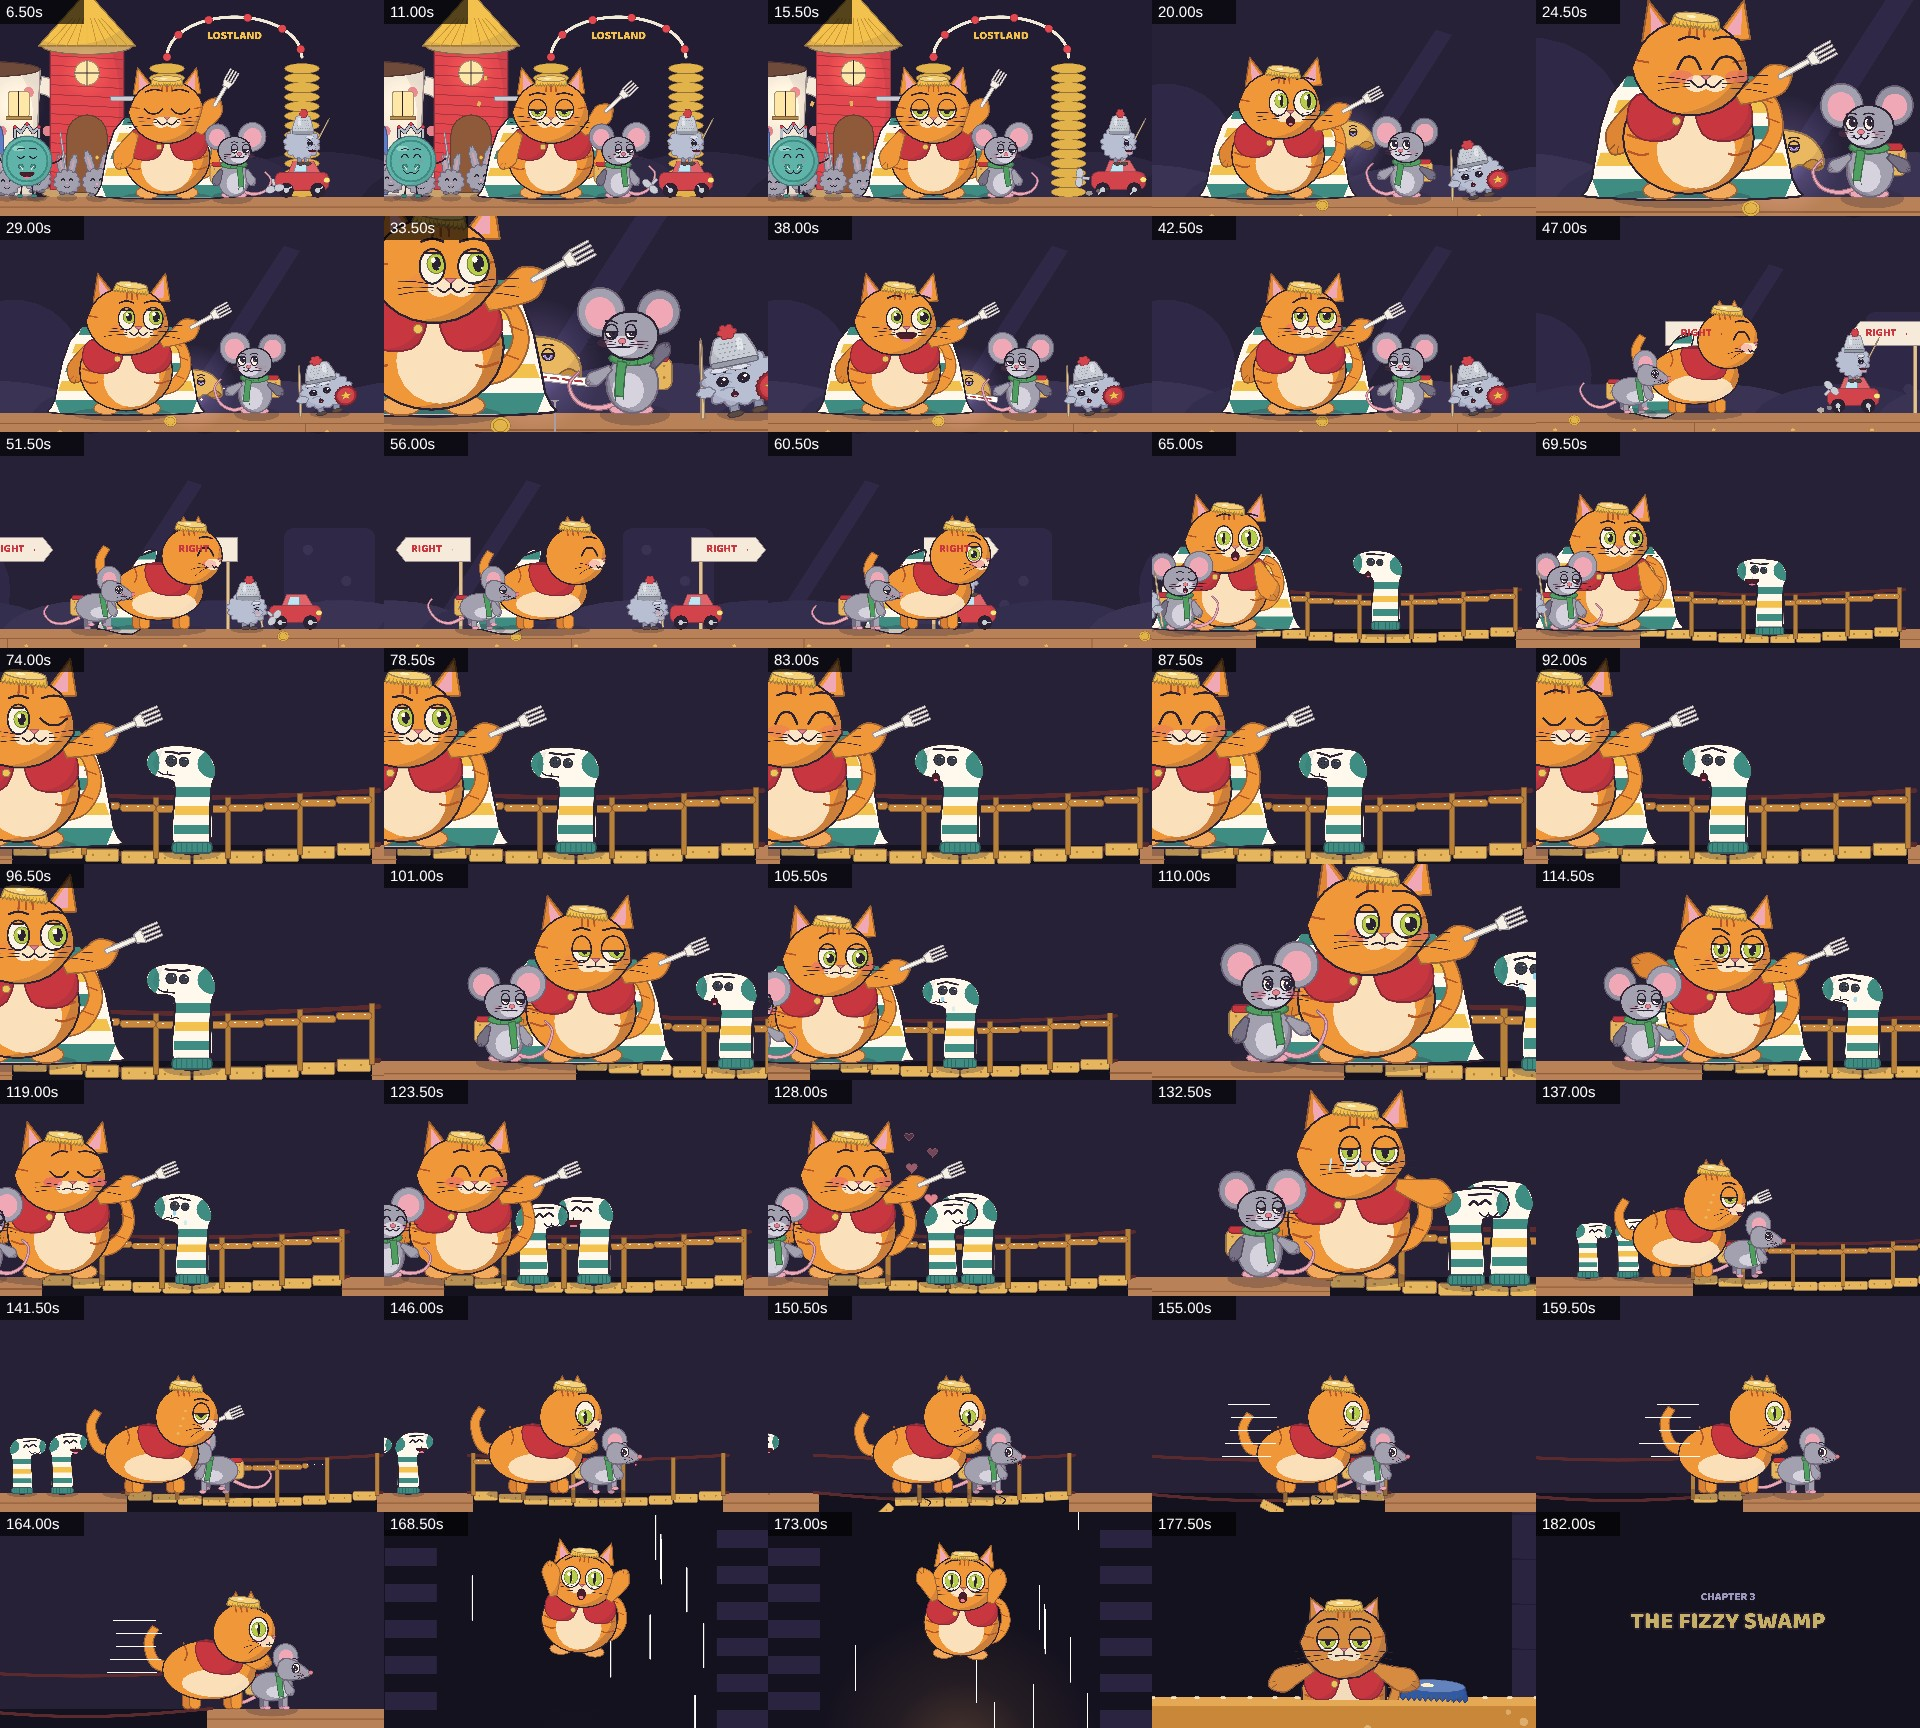
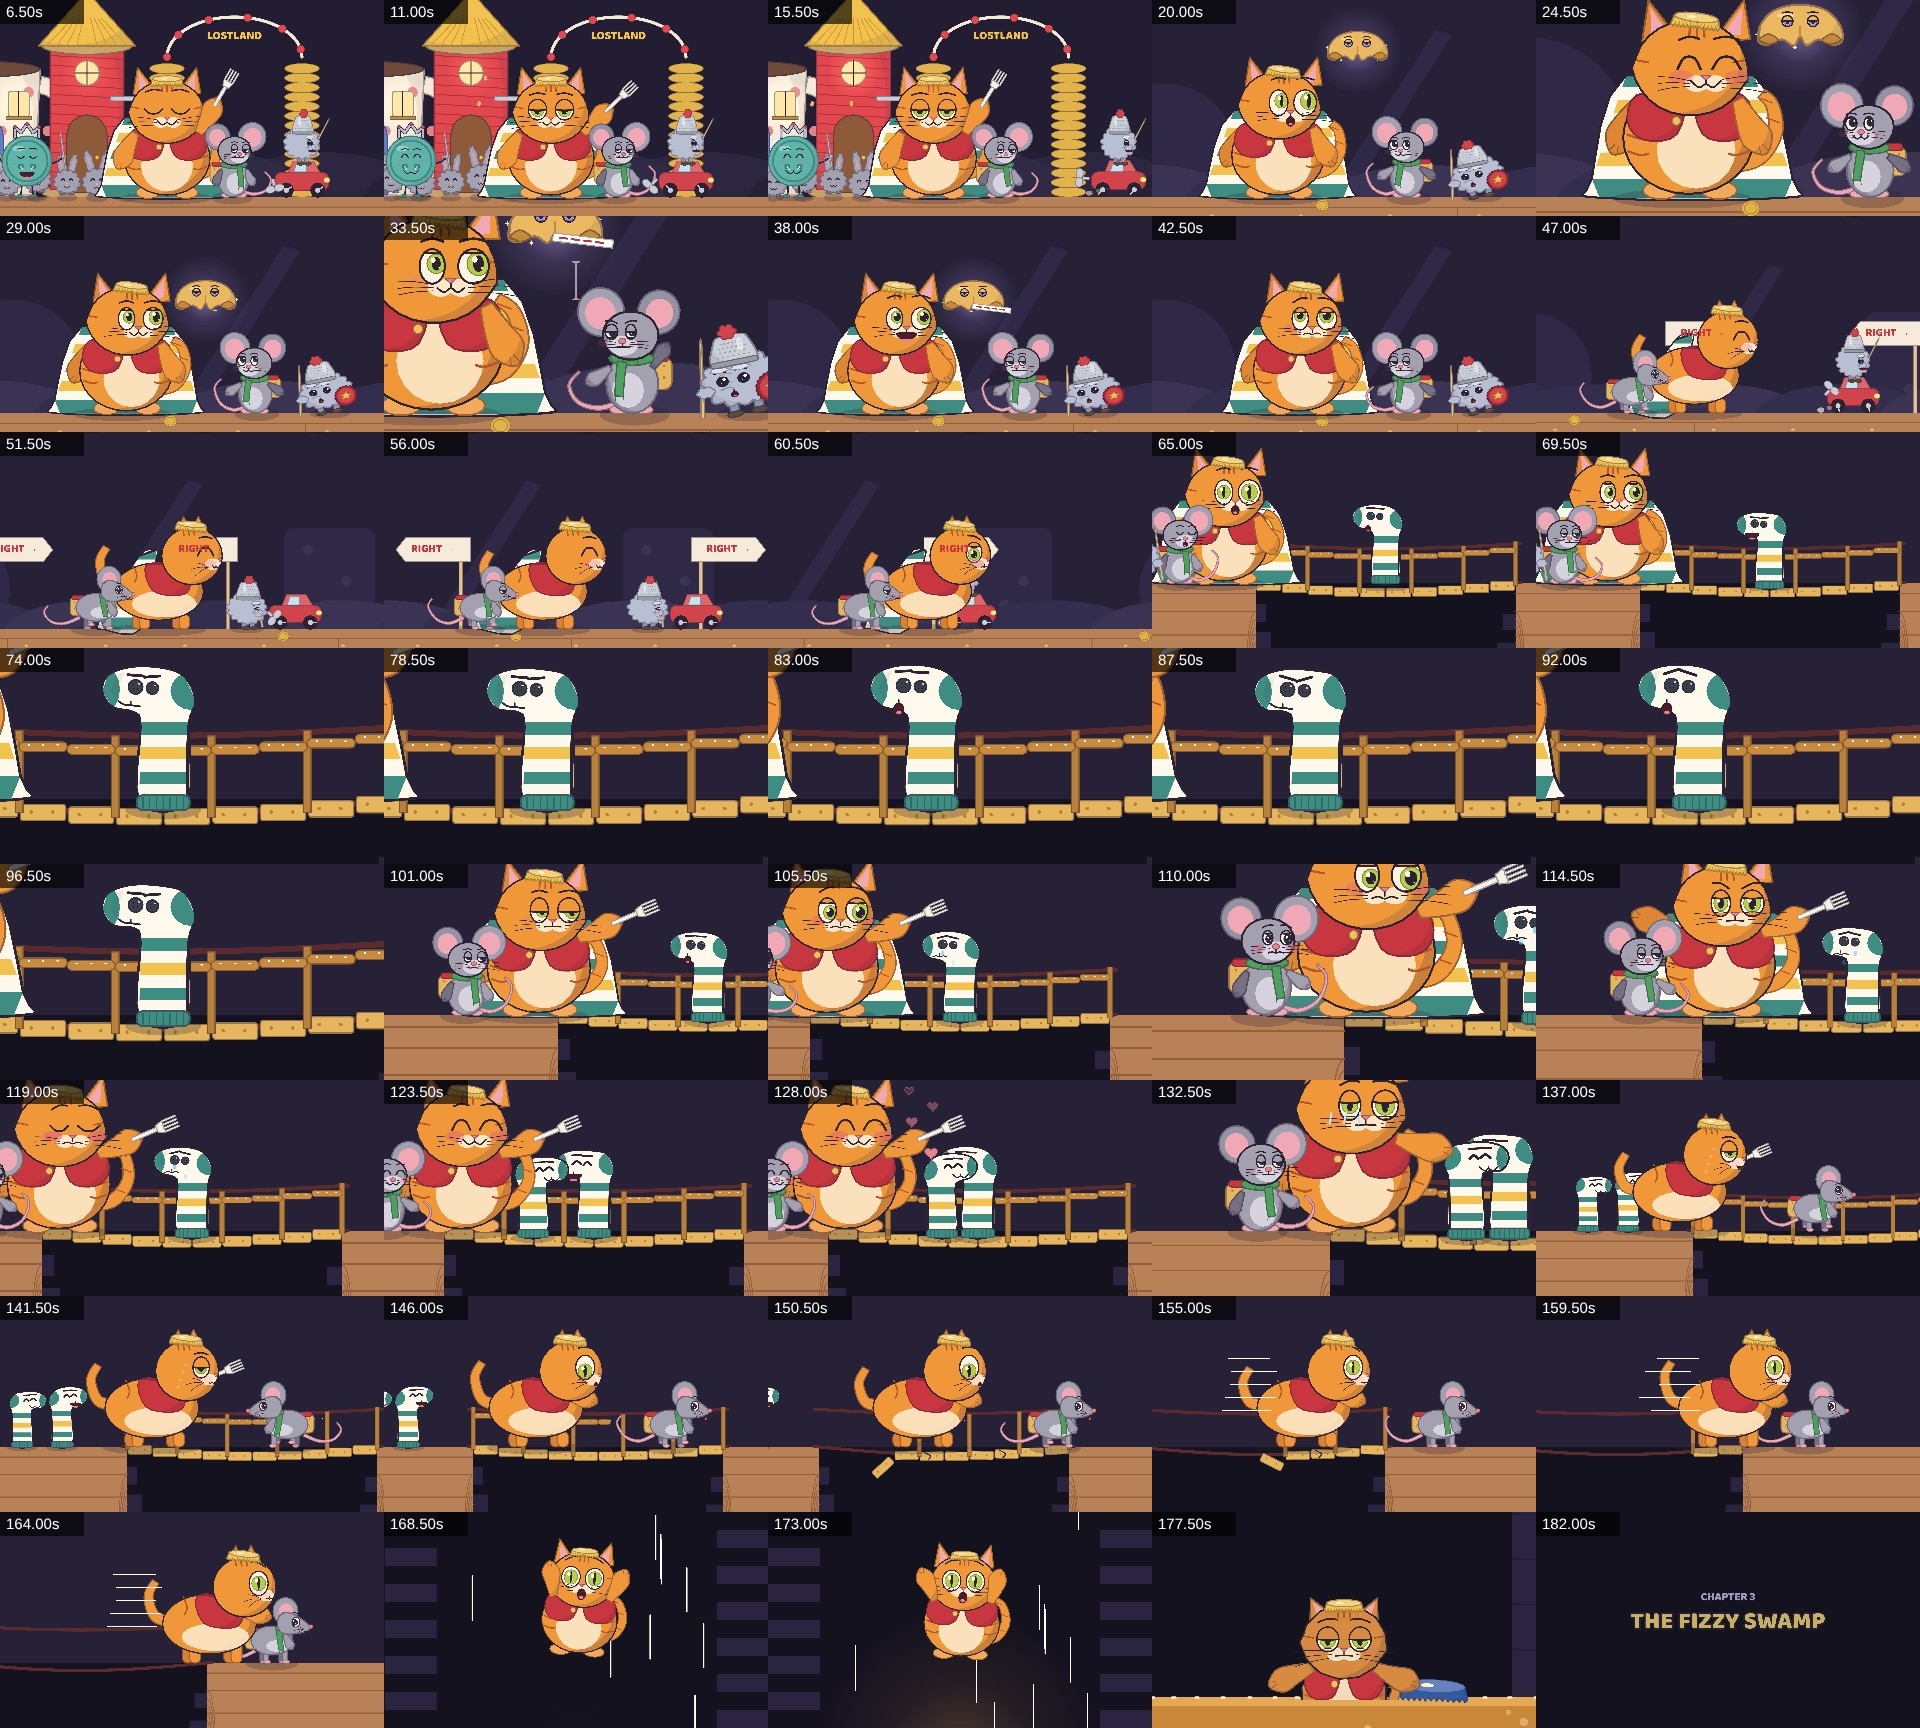
long/07 ch2: riddle close-ups on the troll, hanging shot framing
Claude-Session: https://claude.ai/code/session_01WxLgLCMvMcVaDmvrqqXGT7

diff --git a/long/07-couch-kingdom/ch2/src/scenes/shots.js b/long/07-couch-kingdom/ch2/src/scenes/shots.js
@@ -92,14 +92,14 @@
   // now?" — the troll's whole sock gurgles — "...Snack." "...Correct." (he starts to sob)
   function s05(t) {
     const onTroll = (t > 68.6 && t < 74) || (t > 75.6 && t < 83.6) || (t > 86 && t < 92.6) || t > 96;
-    if (onTroll) camC(TX, 1.8); else camC(560, 1.6);
+    if (onTroll) camC(TX + 60, 2.4); else camC(620, 1.5);
     canyon(t);
     const gurgle = t > 92.4 && t < 94 ? Math.sin(t * 50) * .08 : 0;
     troll(t, { ...faces(t, [[68, 'smug', { mouth: 'smirk' }], [76, 'surprised'], [78.6, 'determined', { mouth: 'smirk' }], [86.4, 'panic', { mouth: 'O' }], [89.2, 'smug', { mouth: 'smirk' }], [92.4, 'surprised', { eyes: 'wide' }], [96.4, 'sheepish', { mouth: 'wobble' }]]), bend: gurgle * 4 + Math.sin(t * 2) * .3, sq: gurgle, tears: t > 97 ? seg(t, 97, 98) : 0, who: 'troll' });
     if (t > 92.4 && t < 94) for (let i = 0; i < 3; i++) inkLine(arcPts(TX - 40, BR.deck - 150, 40 + i * 20, 20 + i * 10, 0, Math.PI, 6), 2.5, '#FFFFFF', 'ink', 0);   // the gurgle
-    hero(560, TFY, { ...faces(t, [[68, 'neutral', { lookX: 1 }], [72.8, 'neutral', { lookX: 1, lookY: -.3, brow: .3 }], [74.4, 'sheepish', { lookX: 1 }], [77, 'happy'], [82.6, 'greedy', { lookX: 1 }], [84, 'proud'], [91, 'neutral', { lookX: 1 }], [93.4, 'deadpan', { lookX: 1 }]]), view: 'q', aR: t > 84 && t < 85.5 ? 1.0 : .4, who: 'pumpkin' }, t);
-    mouse(330, TFY, { ...faces(t, [[68, 'deadpan', { lookX: 1 }], [86.6, 'surprised', { lookX: 1 }], [87.4, 'deadpan', { lookX: 1 }]]), view: 'q' });
-    if (t > 82.8 && t < 85.6) { paint(ellPts(760, HEAD + 40, 60, 60, 20), { wash: '#D9A35C', ink: PAL.ink, sw: 1.6 }); paint(ellPts(760, HEAD + 40, 20, 20, 12), { wash: '#272138', ink: PAL.ink, sw: 1.2 }); }   // the donut (a thought, a prop he produces)
+    hero(480, TFY, { ...faces(t, [[68, 'neutral', { lookX: 1 }], [72.8, 'neutral', { lookX: 1, lookY: -.3, brow: .3 }], [74.4, 'sheepish', { lookX: 1 }], [77, 'happy'], [82.6, 'greedy', { lookX: 1 }], [84, 'proud'], [91, 'neutral', { lookX: 1 }], [93.4, 'deadpan', { lookX: 1 }]]), view: 'q', aR: t > 84 && t < 85.5 ? 1.0 : .4, who: 'pumpkin' }, t);
+    mouse(250, TFY, { ...faces(t, [[68, 'deadpan', { lookX: 1 }], [86.6, 'surprised', { lookX: 1 }], [87.4, 'deadpan', { lookX: 1 }]]), view: 'q' });
+    if (t > 82.8 && t < 85.6) { paint(ellPts(680, HEAD + 40, 60, 60, 20), { wash: '#D9A35C', ink: PAL.ink, sw: 1.6 }); paint(ellPts(680, HEAD + 40, 20, 20, 12), { wash: '#272138', ink: PAL.ink, sw: 1.2 }); }   // the donut (a thought, a prop he produces)
     camEnd();
   }
 
